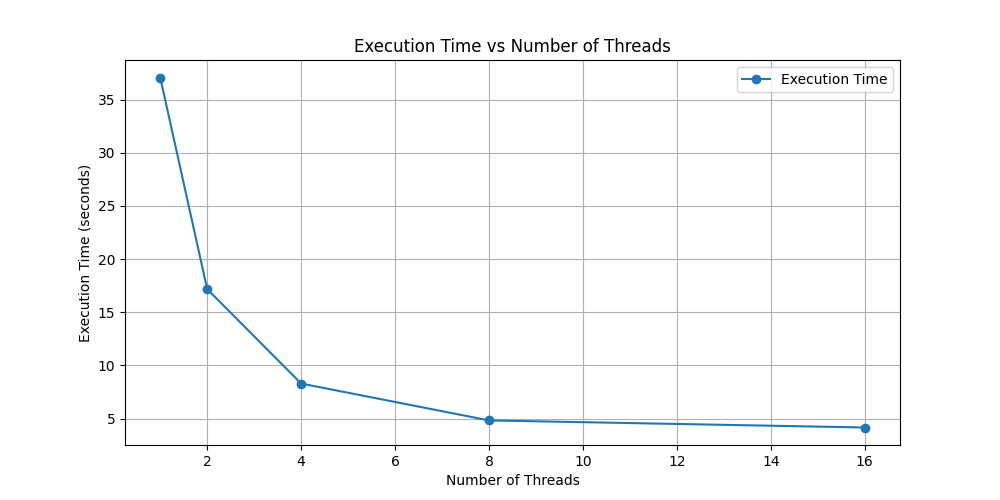
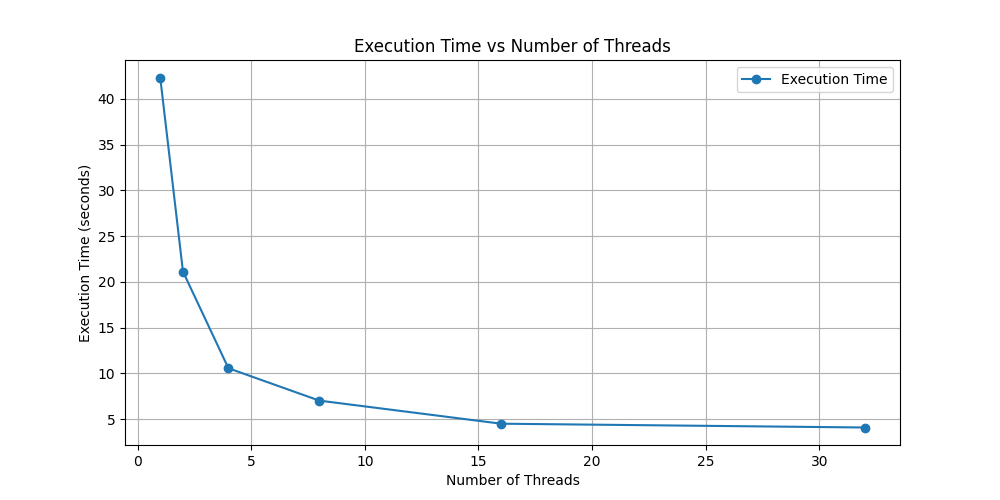
added russian version of the solution

diff --git a/analyzer.py b/analyzer.py
@@ -5,7 +5,7 @@ import numpy as np
 import math
 
 matrix_size = 1000 
-thread_counts = [1, 2, 4, 8, 16]
+thread_counts = [1, 2, 4, 8, 16, 32]
 program = "./main"
 results = []
 tolerance = 1e-6   

diff --git a/README.md b/README.md
@@ -1,11 +1,11 @@
 # Matrix Computation with OpenMP
 
-### Student
-- Name: Bassel Alshayeb - Басель Альшаеб
+### Студент
+- Имя: Bassel Alshayeb - Басель Альшаеб
 - ST: st123219
 
 ### Task
-Solution for first practical task 
+
 d = <B4 x, y>/<x, y> - <B3 x, y>/<x, y>
 ```
 Задание A-07 (Басель Альшаеб)
@@ -23,21 +23,20 @@ d = <B4 x, y>/<x, y> - <B3 x, y>/<x, y>,
 Срок сдачи отчета 26.11.2024.
 
 ```
+#### Объяснение
 
+Для анализа:
+- B — квадратная матрица.
+- X и Y — векторы.
+- <.,.> 
+- Размер матрицы `1000` (для экстремального тестирования).
 
-For analyzing:
-- B is a square matrix.
-- X and Y are vectors.
-- <.,.> represents the scalar product
-- Matrix Size `1000` for extrem testing
-
-The program supports both sequential **Sequential** and **Parallel** execution using OpenMP.
-I added the ability to take data from a file to make a test and verify answers between the two solutins.
+Программа поддерживает как **последовательное** выполнение, так и **параллельное** с использованием OpenMP. Реализована возможность использования данных из файла для проверки и верификации результатов.
 
 ---
 
-### Отчет
-**1. Server speces**
+### Решение
+**1. Характеристики системы**
 
 ```
 Operating System: Ubuntu 22.04.4 LTS
@@ -49,23 +48,26 @@ Memory: 14 G
 Disk Space: 1.5 G
 ```
 
-**2. Measuring result**
+**2. Результаты измерений**
 
-- Size: 1000
-- Sequential Time: 36.409 Seconds
-- Paralel Time: 
+- Размер матрицы: 1000
+- Последовательное время выполнения: 42.3219 Seconds
+- Параллельное время выполнения: 
 
 | Threads | Execution Time | Speedup |
 | ------- | -------------- | ------- |
-| 2 | 17.1853 | 2.157902393324527 |
-| 4 | 8.3027 | 4.466522938321269 |
-| 8 | 4.83579 | 7.668695290738432 |
-| 16 | 4.16871 | 8.895845477377895 |
-| ------- | -------------- | ------- |
+| 1 | 42.3219 | 1.0 |
+| 2 | 21.1306 | 2.002872611284109 |
+| 4 | 10.5706 | 4.003736779369193 |
+| 8 | 7.03364 | 6.017069397921986 |
+| 16 | 4.51372 | 9.376279432485843 |
+| 32 | 4.09819 | 10.326973615181336 |
+---
+
 
 **3. Python Output**
 
-![python result](python_result.png)
+![python result](python_result1.png)
 
 **4. Speedup Diagram As Amdahl's Law**
 
@@ -77,37 +79,43 @@ Disk Space: 1.5 G
 ![Execution Time VS Threads](execution_time_vs_threads.png)
 
 
-### Features
-- Matrix and vector input can be read from files or generated randomly.
-- Parallelized computations for matrix multiplications and scalar products using OpenMP.
-- Validation against sequential execution for correctness.
+### Особенности
+- Поддержка ввода матрицы и векторов из файлов или генерация случайных данных.
+- Параллельные вычисления для умножения матриц и вычисления скалярных произведений с использованием OpenMP.
+- Верификация корректности параллельного выполнения через последовательное выполнение.
 
 ---
 
-### Requirements
+### Требования
 - **C++ Compiler with OpenMP Support** 
 - **Python 3.10**
 
 ---
 
-### Usage
+### Использование
+
 **1. Compilation** \
-Compiling the program main.cpp with OpenMP support:
+
+Компиляция программы с поддержкой OpenMP main.cpp:
+
 ```bash
 g++ -o main -fopenmp  main.cpp
 ```
+
 **2. Execution** \
-- For full testing I used Python with a couple of predefined threads counts
+
+- Для полного тестирования используется Python с предустановленными значениями количества потоков
+
 ```
-[1, 2, 4, 8, 16]
+[1, 2, 4, 8, 16, 32]
 ```
 
-- You run the python to see the full diagrams and full tests written there
+- Запустите Python-скрипт для получения диаграмм и результатов
 
 ```bash
 python3 analyzer.py
 ```
-- Or you can run it manually and specify the number of threads you want 
+- Либо запустите программу вручную, указав количество потоков
 
 ```bash
 export OMP_NUM_THREADS=X
@@ -115,20 +123,22 @@ export OMP_NUM_THREADS=X
 ```
 
 **3. Debugging** \
+
 To run sequentialy and check the speed for:
 ```bash
 export OMP_NUM_THREADS=1 
+./main
 ```
 
 ---
 
 
-### Output
-1. Using the C++ code the program prints:
-- The computed result of d
-- The time for calculation and debugging data
+### Вывод
+1. C++:
+- Печатает вычисленное значение 𝑑.
+- Показывает время выполнения и отладочные данные
 
-2. Using the python code
-- All results for each amount of threads
-- Diagram to show Speed Up X Threads relatio
+2. Python
+- Отображает результаты для каждого количества потоков.
+- Строит диаграммы зависимости ускорения от количества потоков.
 
